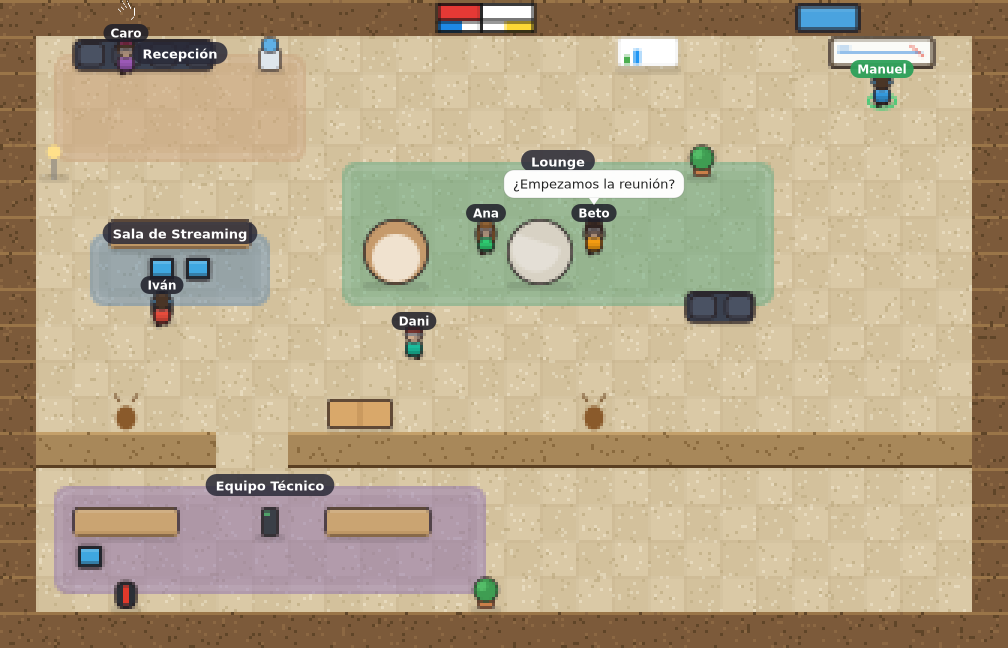
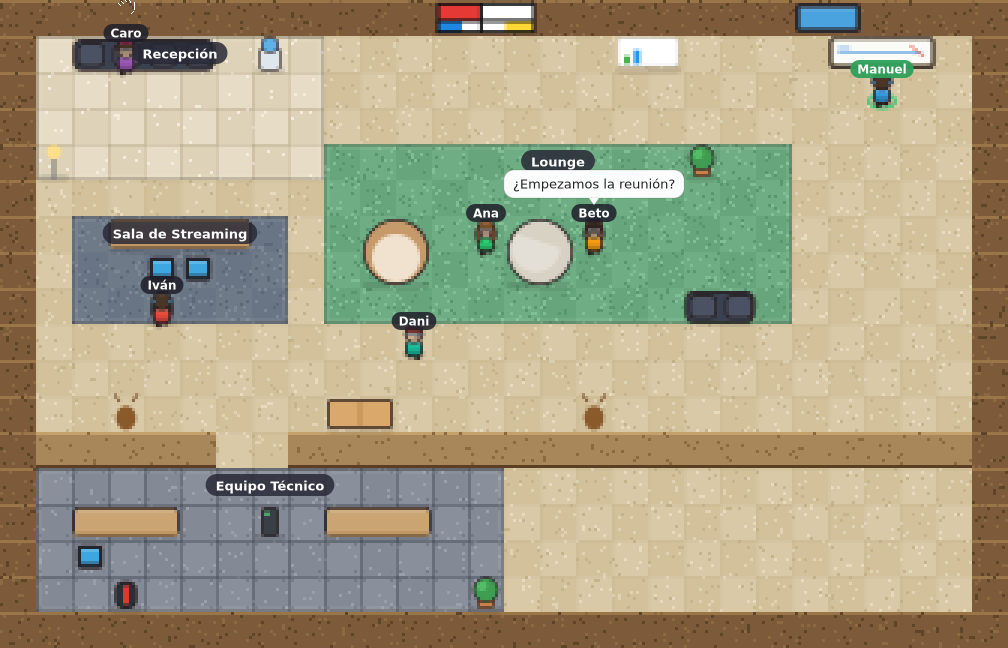
Texturas de suelo por sala (estilo GBA)
- Recepción: baldosa clara con junta en rejilla
- Lounge: moqueta verde (dithering denso afelpado)
- Sala de Streaming: moqueta gris-azulada
- Equipo Técnico: suelo técnico de paneles con tornillos
- Pasillos: baldosa cálida por defecto
- La alfombra translúcida pasa a ser un borde de umbral por sala
- Captura actualizada

Changed region(s): [[0.0308, 0.0309, 0.7996, 0.5247], [0.0308, 0.7099, 0.5228, 0.9568]]

diff --git a/client/src/game/render.js b/client/src/game/render.js
@@ -2,7 +2,7 @@
 // Dibujo de la oficina sobre canvas (estilo top-down pixel-art
 // simplificado). Todo se dibuja relativo a la cámara `cam` (px).
 // ─────────────────────────────────────────────────────────────
-import { TILE, COLS, ROWS, FURNITURE, ZONES, DIVIDER } from "./mapData.js";
+import { TILE, COLS, ROWS, FURNITURE, ZONES, DIVIDER, zoneOf } from "./mapData.js";
 
 function roundRect(ctx, x, y, w, h, r) {
   const rr = Math.min(r, w / 2, h / 2);
@@ -32,6 +32,51 @@ function dither(ctx, px, py, x, y, color, density) {
   }
 }
 
+// Suelos por sala (cada zona tiene su propia textura con dithering).
+function tanTile(ctx, px, py, x, y) {
+  const a = (x + y) % 2 === 0;
+  ctx.fillStyle = a ? "#dac9a6" : "#d3c19c";
+  ctx.fillRect(px, py, TILE, TILE);
+  dither(ctx, px, py, x, y, a ? "#e7dabd" : "#e0d3b4", 6);
+  dither(ctx, px, py, x + 5, y + 9, "#c6b48c", 4);
+  ctx.fillStyle = "rgba(150,130,95,0.18)";
+  ctx.fillRect(px, py, TILE, 1);
+  ctx.fillRect(px, py, 1, TILE);
+}
+
+// Moqueta: textura "afelpada" (dithering denso).
+function carpetTile(ctx, px, py, x, y, base, alt, light, dark) {
+  ctx.fillStyle = (x + y) % 2 === 0 ? base : alt;
+  ctx.fillRect(px, py, TILE, TILE);
+  dither(ctx, px, py, x, y, light, 11);
+  dither(ctx, px, py, x + 4, y + 6, dark, 9);
+}
+
+// Baldosa: junta marcada en rejilla (recepción).
+function tileFloor(ctx, px, py, x, y, base, alt, seam) {
+  ctx.fillStyle = (x + y) % 2 === 0 ? base : alt;
+  ctx.fillRect(px, py, TILE, TILE);
+  dither(ctx, px, py, x, y, "#f3ecdd", 3);
+  ctx.fillStyle = seam;
+  ctx.fillRect(px, py, TILE, 2);
+  ctx.fillRect(px, py, 2, TILE);
+}
+
+// Suelo técnico: paneles con tornillos en las esquinas.
+function techFloor(ctx, px, py, x, y) {
+  ctx.fillStyle = (x + y) % 2 === 0 ? "#8a909b" : "#838995";
+  ctx.fillRect(px, py, TILE, TILE);
+  dither(ctx, px, py, x, y, "#9aa0aa", 5);
+  ctx.fillStyle = "rgba(40,48,60,0.45)"; // juntas de panel
+  ctx.fillRect(px, py, TILE, 2);
+  ctx.fillRect(px, py, 2, TILE);
+  ctx.fillStyle = "#5e6470"; // tornillos
+  ctx.fillRect(px + 3, py + 3, 2, 2);
+  ctx.fillRect(px + TILE - 5, py + 3, 2, 2);
+  ctx.fillRect(px + 3, py + TILE - 5, 2, 2);
+  ctx.fillRect(px + TILE - 5, py + TILE - 5, 2, 2);
+}
+
 export function drawFloor(ctx, cam) {
   for (let y = 0; y < ROWS; y++) {
     for (let x = 0; x < COLS; x++) {
@@ -47,14 +92,22 @@ export function drawFloor(ctx, cam) {
         dither(ctx, px, py, x, y, "#5f4528", 8);
         dither(ctx, px, py, x + 7, y + 3, "#8c6843", 6);
       } else {
-        const a = (x + y) % 2 === 0;
-        ctx.fillStyle = a ? "#dac9a6" : "#d3c19c";
-        ctx.fillRect(px, py, TILE, TILE);
-        dither(ctx, px, py, x, y, a ? "#e7dabd" : "#e0d3b4", 7);
-        dither(ctx, px, py, x + 5, y + 9, "#c6b48c", 5);
-        ctx.fillStyle = "rgba(150,130,95,0.22)"; // junta
-        ctx.fillRect(px, py, TILE, 1);
-        ctx.fillRect(px, py, 1, TILE);
+        switch (zoneOf(x, y)) {
+          case 0: // Recepción → baldosa clara
+            tileFloor(ctx, px, py, x, y, "#e7ddc6", "#ded3b8", "rgba(150,130,95,0.30)");
+            break;
+          case 1: // Sala de Streaming → moqueta gris-azulada
+            carpetTile(ctx, px, py, x, y, "#6f7a89", "#697585", "#7d8794", "#5d6878");
+            break;
+          case 2: // Lounge → moqueta verde
+            carpetTile(ctx, px, py, x, y, "#6fae84", "#67a67c", "#80bf95", "#5a9670");
+            break;
+          case 3: // Equipo Técnico → suelo técnico de paneles
+            techFloor(ctx, px, py, x, y);
+            break;
+          default:
+            tanTile(ctx, px, py, x, y);
+        }
       }
     }
   }
@@ -74,28 +127,20 @@ export function drawFloor(ctx, cam) {
   }
 }
 
-// ── Alfombras de las salas de reunión ──────────────────────────
-// Refuerzan visualmente cada sala (donde el audio es de grupo).
-const RUGS = ["#caa37a", "#5a86b0", "#5aa982", "#8a6fb0"];
-
+// ── Umbral de las salas de reunión ─────────────────────────────
+// Cada sala ya tiene su propio suelo (ver drawFloor); aquí sólo se
+// remarca su borde para señalar el espacio (donde el audio es de grupo).
 export function drawRugs(ctx, cam) {
-  ZONES.forEach((z, i) => {
-    const px = (z.x + 0.5) * TILE - cam.x;
-    const py = (z.y + 0.5) * TILE - cam.y;
-    const w = (z.w - 1) * TILE;
-    const h = (z.h - 1) * TILE;
-    ctx.save();
-    ctx.globalAlpha = 0.5;
-    ctx.fillStyle = RUGS[i % RUGS.length];
-    roundRect(ctx, px, py, w, h, 14);
-    ctx.fill();
-    // Borde interior de la alfombra.
-    ctx.globalAlpha = 0.7;
-    ctx.strokeStyle = "rgba(255,255,255,0.35)";
+  ZONES.forEach((z) => {
+    const px = z.x * TILE - cam.x;
+    const py = z.y * TILE - cam.y;
+    const w = z.w * TILE;
+    const h = z.h * TILE;
+    ctx.strokeStyle = "rgba(40,30,20,0.30)";
     ctx.lineWidth = 2;
-    roundRect(ctx, px + 6, py + 6, w - 12, h - 12, 10);
-    ctx.stroke();
-    ctx.restore();
+    ctx.strokeRect(px + 1, py + 1, w - 2, h - 2);
+    ctx.strokeStyle = "rgba(255,255,255,0.18)";
+    ctx.strokeRect(px + 3, py + 3, w - 6, h - 6);
   });
 }
 
